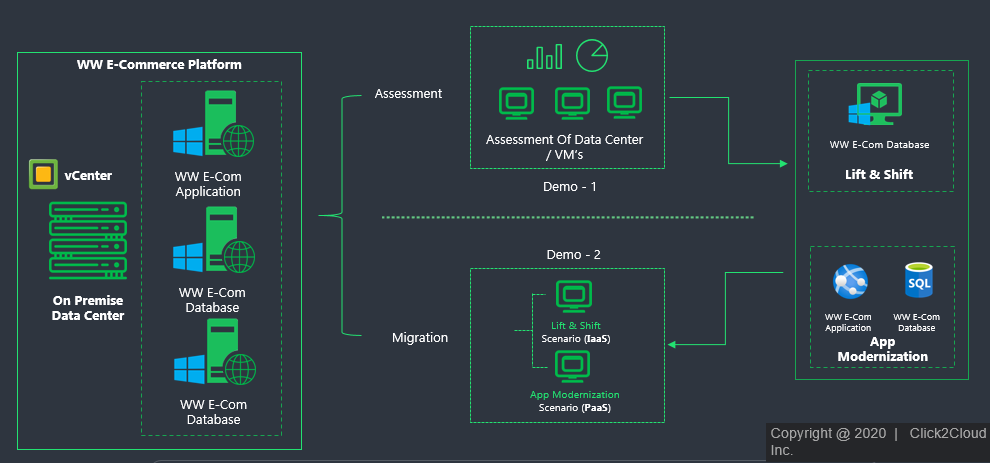
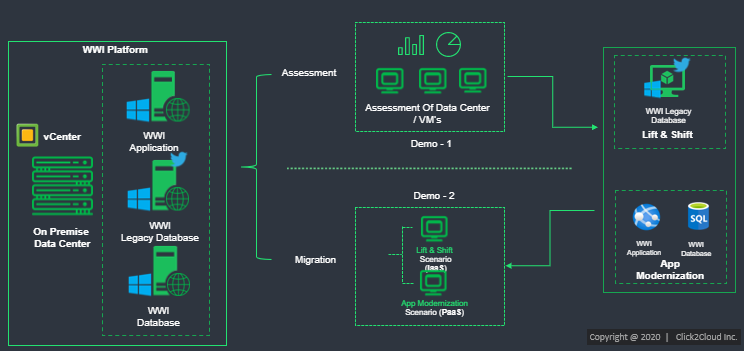
Updated content with respect to wwi

diff --git a/README.md b/README.md
@@ -59,17 +59,20 @@ A modernized, cloud hosted application drastically reduces hardware and infrastr
 
 * For performing assessment and migration, user needs to [setup](prerequisites/appliance-setup.md) Azure Migrate Appliance on vCenter.
 
-> Note: Make sure you have configured appliance on vCenter before following operation for server assessment and migration. *(Duration 30 Minutes)*
+> Note: Make sure you have configured appliance on vCenter before following operation for server assessment and migration. 
+
+*Duration 45 Minutes*
+
 ### Demo 1: Assessment
-##### a. Lift & Shift *(Duration 15 Minutes)*
+##### a. Lift & Shift 
 * [Example - Partsunlimited legacy database](assess-and-migrate/partsunlimited-db-legacy.md)
-##### b. App Modernization *(Duration 15 Minutes)*
+##### b. App Modernization 
 * [Example - Partsunlimited application](assess-and-migrate/partsunlimited-app.md)
 * [Example - Partsunlimited database](assess-and-migrate/partsunlimited-db.md)
 
 ### Demo 2: Migration
-##### a. Lift & Shift *(Duration 15 Minutes)*
+##### a. Lift & Shift 
 * [Example - Partsunlimited legacy database](assess-and-migrate/partsunlimited-db-legacy.md)
-##### b. App Modernization *(Duration 15 Minutes)*
+##### b. App Modernization 
 * [Example - Partsunlimited application](assess-and-migrate/partsunlimited-app.md)
 * [Example - Partsunlimited database](assess-and-migrate/partsunlimited-db.md)

diff --git a/assess-and-migrate/partsunlimited-app.md b/assess-and-migrate/partsunlimited-app.md
@@ -1,5 +1,8 @@
 # PartsUnlimited Application Assessment
-Parts Unlimited is an example eCommerce website site based for training purposes.
+* WWI is a reseller of Wide World Importers
+* WWI has its own E-Commerce Platform where they sell WWI Brand Merchandise
+This WWI infrastructure is on Premise
+* WWI wants to migrate into their Azure Account
 
 The application that will be migrated is hosted on a Windows server 2016 running Internet Information Services (IIS)
 
@@ -38,7 +41,7 @@ Here you can see all the discovered servers from your on-premise data center **v
 4. In **Applications discovered**, click the displayed count.
 * In **Application inventory**, you can review the discovered apps, roles, and features.
 
-* Application Discovery for Manufacturing Database VM.
+* Application Discovery for PartsUnlimited Application VM.
 <p><kbd>
   <img src="../images/partsunlimited/manu-db-assessment-4.png">
 </kbd></p>

diff --git a/assess-and-migrate/partsunlimited-db.md b/assess-and-migrate/partsunlimited-db.md
@@ -1,4 +1,9 @@
 # PartsUnlimited Database Assessment
+* WWI is a reseller of Wide World Importers
+* WWI has its own E-Commerce Platform where they sell WWI Brand Merchandise
+This WWI infrastructure is on Premise
+* WWI wants to migrate into their Azure Account
+
 The database that will be migrated is hosted on a Windows server 2016.
 
 Technologies used:
@@ -35,7 +40,7 @@ Here you can see all the discovered servers from your on-premise data center **v
 4. In **Applications discovered**, click the displayed count.
 * In **Application inventory**, you can review the discovered apps, roles, and features.
 
-* Application Discovery for Manufacturing Database VM.
+* Application Discovery for PartsUnlimited Database VM.
 <p><kbd>
   <img src="../images/partsunlimited/manu-db-assessment-4.png">
 </kbd></p>

diff --git a/assess-and-migrate/partsunlimited-db-legacy.md b/assess-and-migrate/partsunlimited-db-legacy.md
@@ -35,7 +35,7 @@ Here you can see all the discovered servers from your on-premise data center **v
 4. In **Applications discovered**, click the displayed count.
 * In **Application inventory**, you can review the discovered apps, roles, and features.
 
-* Application Discovery for Manufacturing Database VM.
+* Application Discovery for PartsUnlimited legacy Database VM.
 <p><kbd>
   <img src="../images/partsunlimited/manu-db-assessment-4.png">
 </kbd></p>
